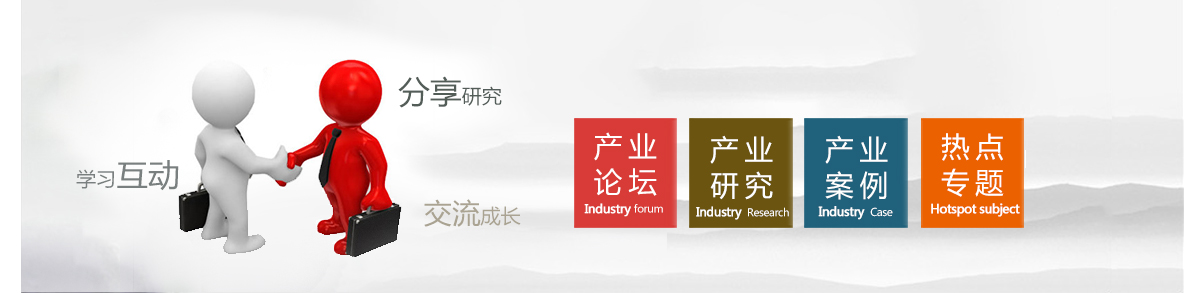
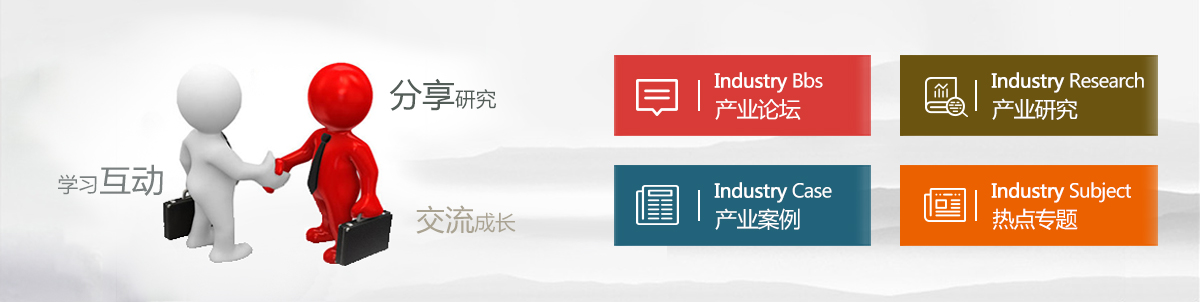
index.html

diff --git a/css/base.css b/css/base.css
@@ -59,12 +59,13 @@ input,button,select,textarea{outline:none}/*取消聚焦*/
 #banner img{ display: block; position: absolute; left: 50%; top: 0%; margin-left: -960px;}
 
 /*公用底部*/
-#footer{width: 100%;padding: 50px 0;background: #787c7f;margin-top: 60px;}
-#footer ul,#footer p{text-align: center;color: #e3e0e0;}
-#footer ul{margin-bottom: 40px;}
-#footer p{line-height: 35px;font-size: 16px;}
-#footer li,#footer span{display: inline-block;color: #e3e0e0;font-size: 18px;}
-#footer li a{padding: 0 20px;color: #e3e0e0;font-size: 18px;}
+#footer{width: 100%;background: #fff;margin-top: 60px;}
+#footer .container{background: #f7f7f7;padding-bottom: 30px;}
+#footer ul,#footer p{text-align: center;color: #8b8b8b;font-size: 17px;}
+#footer ul{margin-bottom: 22px;padding-top: 26px;}
+#footer p{line-height: 26px;font-size: 16px;}
+#footer li,#footer span{display: inline-block;color: #8b8b8b;font-size: 17px;}
+#footer li a{padding: 0 16px;color: #8b8b8b;font-size: 17px;}
 
 /*内容*/
 #content{padding: 18px 0 76px;}
@@ -200,7 +201,7 @@ input,button,select,textarea{outline:none}/*取消聚焦*/
 .footer p.foot_Link{margin-bottom: 50px;}
 .footer p.foot_Link a{padding: 0px 25px;}
 .footer p.foot_Link2 a{padding: 0px 7px;}
-.header{height: 100px;border-bottom: 1px solid #EEEEEE;position: relative;z-index: 100;}
+.header{height: 100px;border-bottom: 1px solid #bbbec4;position: relative;z-index: 100;}
 .header .content{height: 100%;}
 .header.logo-with-line{border-bottom: 2px solid #4480df;}
 .header  .return{float: right;line-height: 100px;}
@@ -214,25 +215,52 @@ input,button,select,textarea{outline:none}/*取消聚焦*/
 .top_menuList{list-style: none;margin-bottom: 0px;}
 .top_menuItem{float: left;position: relative;}
 .top_menuItem .top_menuItemA{display:inline-block;font-size: 18px;line-height: 100px;color:#2D2D2D;padding: 0px 20px;text-align: right;position: relative;}
-.top_menuItem .top_menuItemA.active{color: #BC1716;}
-.top_menuItem .top_menuItemA.active:after{content: "";width:90px;height: 0px;border-bottom: 2px solid #BC1716;position: absolute;left: 50%;margin-left: -45px;bottom: 15px;}
-.top_menuItem.choose .top_menuItemA{color: #BC1716;}
-.top_menuItem.choose .top_menuItemA:after{content: "";width:90px;height: 0px;border-bottom: 2px solid #BC1716;position: absolute;left: 50%;margin-left: -45px;bottom: 15px;}
+.top_menuItem .top_menuItemA.active{color: #2058c2;}
+.top_menuItem .top_menuItemA.active:after{content: "";width:90px;height: 0px;border-bottom: 2px solid #2058c2;position: absolute;left: 50%;margin-left: -45px;bottom: 15px;}
+.top_menuItem.choose .top_menuItemA{color: #2058c2;}
+.top_menuItem.choose .top_menuItemA:after{content: "";width:90px;height: 0px;border-bottom: 2px solid #2058c2;position: absolute;left: 50%;margin-left: -45px;bottom: 15px;}
 .top_menuItemDiv{position: absolute;background-color: white;padding: 15px;left:12px;top: 100px;overflow: hidden;z-index: 100000;}
 .menu_Zx{margin: 0px;border-spacing: 0;border-collapse: collapse;}
 .menu_Zx td{white-space: nowrap;padding: 10px !important;line-height: 1.42857143;vertical-align: top;border-top: 1px solid #ddd;box-sizing: border-box;}
 .menu_Zx tr td:first-child{padding-right: 25px !important;}
 .menu_Zx td a{color: #656565;font-size: 18px;}
-.menu_Zx td a:hover{color: #BC1716;}
+.menu_Zx td a:hover{color: #2058c2;}
 
 .menu_Zx tr:first-child td{border-top: none;}
 
 
-.culture-product{border: 1px solid #ccc;padding: 30px 20px 10px;margin-top: 20px;}
+.index_Search form{width: 690px;height: 45px;border: 1px solid #eee;border-radius: 3px;line-height: 45px;float: left;background: #f8f8f8;}
+.index_Search form select{border: none;outline: none;border: 0;background: transparent;font-size: 16px;color: #c2c2c2;text-align:center;padding-left: 10px;}
+.index_Search form input[type="text"]{width: 458px;border: none;outline: none;line-height: 35px;background: transparent;font-size: 16px;color: #c2c2c2;}
+.index_Search form a{font-size: 16px;color: #1d1d1d;}
+.index_Search form input[type="search"]{background: url(../images/im-search.png) no-repeat center;width: 30px;float: right;margin-right: 10px;cursor: pointer;}
+.index_Search p{float: right;font-size: 16px;color: #444;line-height: 45px;}
+.index-news{margin-top: 20px;}
+.index-news .news{width: 920px;height: 279px;border: 1px solid #eee;padding: 20px;box-sizing: border-box;}
+.index-news .news dt{float: left;}
+.index-news .news dd{margin-left: 394px;}
+.index-news .news dd .title{border-bottom: 1px solid #2058c2;padding-bottom: 12px;margin-bottom: 10px;}
+.index-news .news dd .title a{float: right;position: relative;top: 30px;font-size: 18px;color: #333;}
+.index-news .news dd i{font-style: normal;color: #2058c2;padding: 0 10px;}
+.index-news .news dd p{color: #696b76;font-size: 14px;line-height: 26px;}
+.index-news .news dd span{float: right;}
+.index-news .login{width: 261px;height: 279px;border: 1px solid #eee;padding: 20px;box-sizing: border-box;}
+.index-news .login .title{border-bottom: 1px solid #2058c2;padding-bottom: 12px;margin-bottom: 10px;}
+.index-news .login form{text-align: center;}
+.index-news .login input[type="text"],.index-news .login input[type="password"]{width: 218px;height: 37px;line-height: 37px;border: 1px solid #eee;margin-top: 16px;text-indent: 45px;}
+.index-news .login input[type="text"]{background: url(../images/username.png) no-repeat left center;}
+.index-news .login input[type="password"]{background: url(../images/password.png) no-repeat left center;}
+.index-news .login input[type="button"]{width: 56px;height: 26px;line-height: 26px;color: #fff;text-align: center;font-size: 14px;background: url(../images/im-btn.png) no-repeat center;margin-top: 26px;}
+.index-news .login input.first{margin-right: 38px;}
+
+.culture-product{border: 1px solid #eee;padding: 30px 20px 32px;margin-top: 20px;}
 .culture-product h5{border-bottom: 1px solid #2058c2;padding: 0 13px 10px;}
-.culture-product h5 a{float: right;font-size: 16px;color: #333;line-height: 56px;}
-.culpro-container{width: 817px;height: 598px;margin: 20px 0 0;float: left;}
-.culpro-container .swiper-slide{position: relative;}
+.culture-product h5 a{float: right;font-size: 18px;color: #333;line-height: 56px;position: relative;top: 15px;}
+.culpro-container{width: 100%;height: 493px;margin: 30px auto 0;}
+.culpro-container .swiper-button-prev{width: 35px;height: 81px;background-color: rgba(0,0,0,0.4);left: 5px;}
+.culpro-container .swiper-button-next{width: 35px;height: 81px;background-color: rgba(0,0,0,0.4);right: 5px;}
+.culpro-container .swiper-slide{position: relative;text-align: center;}
+.culpro-container .swiper-slide a{border: 1px solid #eee;display: inline-block;}
 .culpro-container h1{width: 100%;line-height: 80px;background: rgba(0,0,0,0.75);font-size: 30px;color: #fff;position: absolute;bottom: 0;left: 0;text-indent: 30px;}
 .cul-right{float: right;}
 .cul-right div{margin-top: 20px;}

diff --git a/index.html b/index.html
@@ -19,9 +19,9 @@
 				<ul class="right">
 					<li><a href="reg_login/login-personal.html">登录</a></li>
 					<li><span> | </span></li>
-					<li><a href="reg_login/register-personal.html">个人注册</a></li>
-					<li><span> | </span></li>
-					<li><a href="reg_login/register-company.html">企业注册</a></li>
+					<li><a href="reg_login/register-personal.html">注册</a></li>
+					<!-- <li><span> | </span></li> -->
+					<!-- <li><a href="reg_login/register-company.html">企业注册</a></li> -->
 				</ul>
 			</div>
 		</div>
@@ -244,26 +244,42 @@
 			</div>
 		</div>
 		<div class="index_Banner">
-			<div class="swiper-container">
-				<div class="swiper-wrapper">
-					<div class="swiper-slide">
-						<a href="#"><img src="img/indexBanner.jpg" /></a>
-					</div>
-					<div class="swiper-slide">
-						<a href="#"><img src="img/indexBanner.jpg" /></a>
-					</div>
-					<div class="swiper-slide">
-						<a href="#"><img src="img/indexBanner.jpg" /></a>
-					</div>
+			<div class="content">
+				<div class="swiper-container">
+					<div class="swiper-wrapper">
+						<div class="swiper-slide">
+							<a href="#"><img src="img/indexBanner.jpg" /></a>
+						</div>
+						<div class="swiper-slide">
+							<a href="#"><img src="img/indexBanner.jpg" /></a>
+						</div>
+						<div class="swiper-slide">
+							<a href="#"><img src="img/indexBanner.jpg" /></a>
+						</div>
 
+					</div>
+					<div class="swiper-pagination"></div>
 				</div>
-				<!-- Add Pagination -->
-				<div class="swiper-pagination"></div>
-			</div>
+			</div>			
 		</div>
 		<div class="index_Search">
 			<div class="content">
-				<div class="row">
+				<form action="">
+					<select name="" id="">
+						<option value="">全部</option>
+						<option value="">新闻</option>
+						<option value="">视频</option>
+						<option value="">图片</option>
+						<option value="">论坛</option>
+						<option value="">服务</option>
+					</select>
+					<input type="text" placeholder="输入您要搜索的关键词" />
+					<a href="">搜索 | </a>
+					<a href="">高级搜索</a>
+					<input type="search" />
+				</form>
+				<p>欢迎关注山西文化产业微信公众号：2356982455</p>
+				<!-- <div class="row">
 					<div class="col-md-4 index_SearchRm">
 						欢迎关注山西文化产业微信公众号：2356982455
 					</div>
@@ -271,14 +287,41 @@
 						<input class="form-control index_SearchInput" placeholder="输入您要搜索的关键词" />
 						<a href="#" class="index_SearchBtn"></a>
 					</div>
+				</div> -->
+			</div>
+		</div>
+		<div class="content index-news">
+			<div class="left">
+				<dl class="news">
+					<dt><img src="images/new.jpg" alt=""></dt>
+					<dd>
+						<div class="title"><img src="images/im-news.png" alt=""><a href="news/list.html">更多>></a></div>
+						<p><i>●</i>谈中国的文化输出：用文化自信塑造独特价值符号<span>2016-07-11</span></p>
+						<p><i>●</i>刘结成：“4+”战略助力特色文化资源的IP开发<span>2016-07-11</span></p>
+						<p><i>●</i>李向民：文化产业供给侧改革要做好加减法 <span>2016-07-11</span></p>
+						<p><i>●</i>饶曙光：从“供给侧改革”看中国电影产业发展 <span>2016-07-11</span></p>
+						<p><i>●</i>文化产业创新与文化繁荣是大趋势 书画收藏市场正 .<span>2016-07-11</span></p>
+						<p><i>●</i>饶曙光：从“供给侧改革”看中国电影产业发展 <span>2016-07-11</span></p>
+					</dd>
+				</dl>
+			</div>
+			<div class="right">
+				<div class="login">
+					<div class="title"><img src="images/im-login.png" alt=""></div>
+					<form action="">
+						<input type="text" />
+						<input type="password" />
+						<input type="button" value="登录" class="first" />
+						<input type="button" value="注册" />
+					</form>
 				</div>
 			</div>
 		</div>
 		<div class="content" style="margin-top: 20px;">
-			<img src="img/indexContent1.jpg" usemap="#Map2" />
+			<!-- <img src="img/indexContent1.jpg" usemap="#Map2" />
             <map name="Map2">
               <area shape="rect" coords="841,40,895,64" href="news/list.html">
-            </map>
+            </map> -->
 			<div class="row index_Select">
 				<div class="col-md-3 index_SelectItem">
 					<a href="policy/index.html">
@@ -310,32 +353,32 @@
 				<div class="culpro-container swiper-container">
 				    <div class="swiper-wrapper">
 				        <div class="swiper-slide">
-				        	<img src="images/culpro1.jpg" alt="">
-				        	<h1>山西特色农产品 展示直销中心开业</h1>
+				        	<a href=""><img src="images/culpro1.jpg" alt=""></a>
+				        	<!-- <h1>山西特色农产品 展示直销中心开业</h1> -->
 				        </div>
 				        <div class="swiper-slide">
-				        	<img src="images/culpro1.jpg" alt="">
-				        	<h1>山西特色农产品 展示直销中心开业</h1>
+				        	<a href=""><img src="images/culpro1.jpg" alt=""></a>
+				        	<!-- <h1>山西特色农产品 展示直销中心开业</h1> -->
 				        </div>
 				        <div class="swiper-slide">
-				        	<img src="images/culpro1.jpg" alt="">
-				        	<h1>山西特色农产品 展示直销中心开业</h1>
+				        	<a href=""><img src="images/culpro1.jpg" alt=""></a>
+				        	<!-- <h1>山西特色农产品 展示直销中心开业</h1> -->
 				        </div>
 				    </div>
-				    <div class="swiper-button-prev"></div>
-				    <div class="swiper-button-next"></div>
+				    <div class="swiper-button-prev swiper-button-white"></div>
+				    <div class="swiper-button-next swiper-button-white"></div>
 				</div>
-				<div class="cul-right">
+				<!-- <div class="cul-right">
 					<div><img src="images/culpro2.jpg" alt=""></div>
 					<div><img src="images/culpro3.jpg" alt=""></div>
-				</div>
+				</div> -->
 			</div>
 			<img src="images/3.1.jpg" usemap="#Map" style="margin-top: 20px;width: 100%;" />
 	        <map name="Map">
-	          <area shape="rect" coords="575,119,678,228" href="news/show.html">
-	          <area shape="rect" coords="690,118,794,228" href="news/research.html">
-	          <area shape="rect" coords="804,118,908,228" href="news/case.html">
-	          <area shape="rect" coords="920,119,1025,228" href="news/level32.html">
+	          <area shape="rect" coords="615,56,871,135" href="news/show.html">
+	          <area shape="rect" coords="901,55,1158,137" href="news/research.html">
+	          <area shape="rect" coords="614,166,871,245" href="news/case.html">
+	          <area shape="rect" coords="900,165,1159,247" href="news/level32.html">
 	        </map>
 		</div>
 
